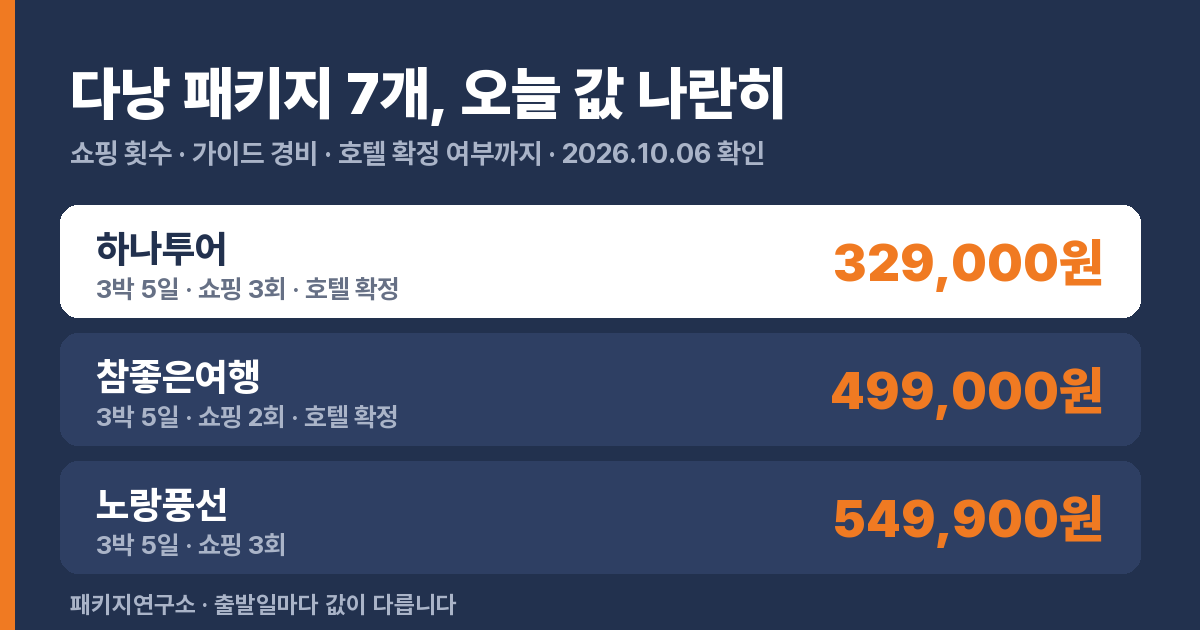
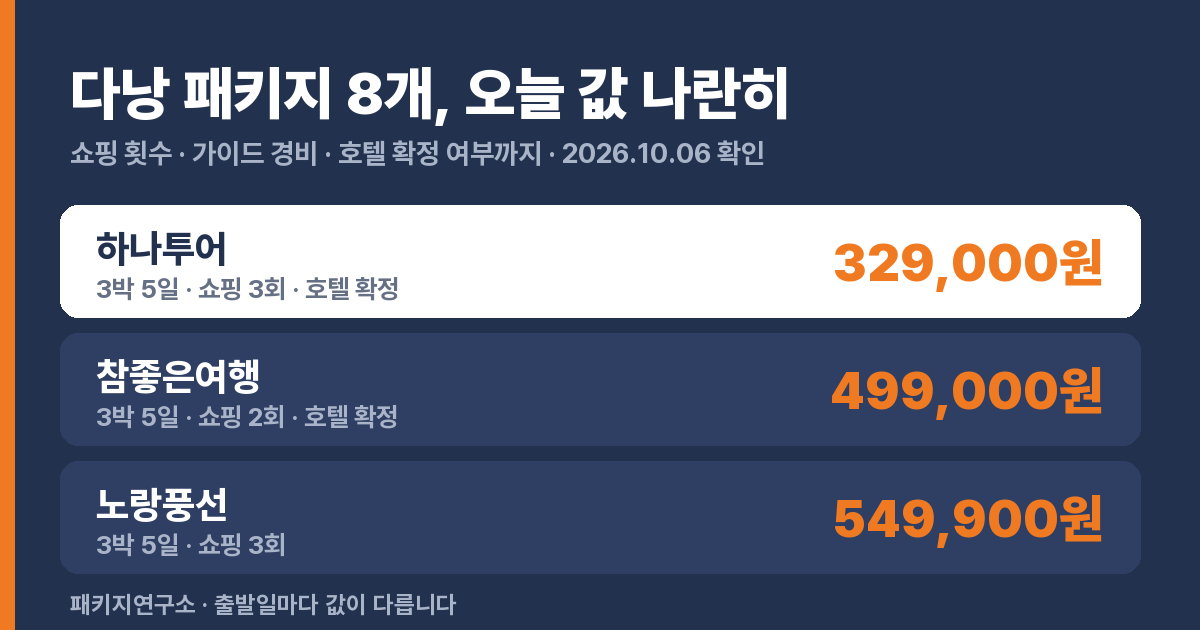
목적지 비교 페이지 2026.10.06

Changed region(s): [[0.2775, 0.0905, 0.6783, 0.2111], [0.4317, 0.0905, 0.4625, 0.1206]]

diff --git a/d/danang.html b/d/danang.html
@@ -1,8 +1,8 @@
 <!doctype html><html lang="ko"><head>
 <meta charset="utf-8"><meta name="viewport" content="width=device-width,initial-scale=1">
 <title>다낭 패키지 비교 — 패키지연구소</title>
-<meta name="description" content="다낭 패키지 7개를 가격·쇼핑 횟수·가이드 경비·호텔 확정 여부로 나란히 놓고 비교합니다.">
-<link rel="canonical" href="https://package-researcher.github.io/d/danang.html"><meta property="og:type" content="website"><meta property="og:url" content="https://package-researcher.github.io/d/danang.html"><meta property="og:title" content="다낭 패키지 7개, 나란히 비교"><meta property="og:description" content="가격·쇼핑 횟수·가이드 경비·호텔 확정 여부 · 오늘 기준 요금"><meta property="og:image" content="https://package-researcher.github.io/d/og/danang.png"><meta property="og:image:width" content="1200"><meta property="og:image:height" content="630"><meta name="twitter:card" content="summary_large_image"><script type="application/ld+json">{"@context": "https://schema.org", "@graph": [{"@type": "WebPage", "name": "다낭 패키지 7개 비교", "url": "https://package-researcher.github.io/d/danang.html", "publisher": {"@type": "Organization", "name": "패키지연구소", "url": "https://package-researcher.github.io/", "logo": "https://package-researcher.github.io/logo.png", "sameAs": ["https://www.youtube.com/@package-researcher", "https://www.instagram.com/package_researcher", "https://www.threads.net/@package_researcher", "https://clip.naver.com/@packagelabs", "https://blog.naver.com/robotnady10", "https://spnd.tistory.com"]}}, {"@type": "BreadcrumbList", "itemListElement": [{"@type": "ListItem", "position": 1, "name": "패키지연구소", "item": "https://package-researcher.github.io/"}, {"@type": "ListItem", "position": 2, "name": "다낭 패키지 비교", "item": "https://package-researcher.github.io/d/danang.html"}]}]}</script>
+<meta name="description" content="다낭 패키지 8개를 가격·쇼핑 횟수·가이드 경비·호텔 확정 여부로 나란히 놓고 비교합니다.">
+<link rel="canonical" href="https://package-researcher.github.io/d/danang.html"><meta property="og:type" content="website"><meta property="og:url" content="https://package-researcher.github.io/d/danang.html"><meta property="og:title" content="다낭 패키지 8개, 나란히 비교"><meta property="og:description" content="가격·쇼핑 횟수·가이드 경비·호텔 확정 여부 · 오늘 기준 요금"><meta property="og:image" content="https://package-researcher.github.io/d/og/danang.png"><meta property="og:image:width" content="1200"><meta property="og:image:height" content="630"><meta name="twitter:card" content="summary_large_image"><script type="application/ld+json">{"@context": "https://schema.org", "@graph": [{"@type": "WebPage", "name": "다낭 패키지 8개 비교", "url": "https://package-researcher.github.io/d/danang.html", "publisher": {"@type": "Organization", "name": "패키지연구소", "url": "https://package-researcher.github.io/", "logo": "https://package-researcher.github.io/logo.png", "sameAs": ["https://www.youtube.com/@package-researcher", "https://www.instagram.com/package_researcher", "https://www.threads.net/@package_researcher", "https://clip.naver.com/@packagelabs", "https://blog.naver.com/robotnady10", "https://spnd.tistory.com"]}}, {"@type": "BreadcrumbList", "itemListElement": [{"@type": "ListItem", "position": 1, "name": "패키지연구소", "item": "https://package-researcher.github.io/"}, {"@type": "ListItem", "position": 2, "name": "다낭 패키지 비교", "item": "https://package-researcher.github.io/d/danang.html"}]}]}</script>
 <style>
 *{box-sizing:border-box}
 body{margin:0;background:#F7F5EF;color:#22314E;word-break:keep-all;overflow-wrap:anywhere;
@@ -41,7 +41,7 @@ h1{font-size:27px;line-height:1.3;margin:6px 0 4px;letter-spacing:-.02em}
 </style></head><body><div class="wrap">
 <a class="back" href="https://package-researcher.github.io/">← 패키지연구소</a>
 <h1>다낭 패키지, 나란히 놓고 비교</h1>
-<p class="sub">7개 · 2026.10.06 기준 · 값싼 순</p>
+<p class="sub">8개 · 2026.10.06 기준 · 값싼 순</p>
 <div class="note"><b>이 표를 보는 법.</b> 값만 보면 안 됩니다.
 <b>쇼핑 횟수</b>가 값을 만들고(0회면 보통 20만원 이상 비쌉니다),
 <b>가이드 경비</b>는 현지에서 따로 내는 돈이며,
@@ -54,6 +54,7 @@ h1{font-size:27px;line-height:1.3;margin:6px 0 4px;letter-spacing:-.02em}
 <div class="card"><div class="name">다낭/호이안 5일 5성 NO옵션NO팁 목식당씨푸드 34만원상당옵션포함 쇼핑2회 차밍쇼 야경투어 TW013</div><div class="price">629,900원<span>1인</span></div><div class="grid"><div class="kv"><b>여행사</b>노랑풍선</div><div class="kv"><b>일정</b>3박 5일</div><div class="kv"><b>항공</b>트리니티항공 직항</div><div class="kv"><b>출발</b>21:35</div><div class="kv"><b>쇼핑</b>2회</div><div class="kv"><b>가이드 경비</b>포함</div><div class="kv"><b>식사</b>10회</div><div class="kv"><b>인솔자</b>없음</div></div><div class="fit"><span class="ok">좋은 점</span> 가이드 경비 포함 · 직항</div><a class="go" href="https://naver.me/GSQyF7NS" target="_blank" rel="sponsored noopener">오늘 기준 요금 보기</a></div>
 <div class="card"> <div class="tag gray">영상으로 따져봄</div><div class="name">NO팁/NO옵션 [다낭3박5일] 바나힐/호이안 - 전객실 오션뷰 [신축 나스타 셀리아 5성 호텔] 부산출발</div><div class="price">711,300원<span>1인</span></div><div class="grid"><div class="kv"><b>여행사</b>편한여행사</div><div class="kv"><b>일정</b>3박 5일</div><div class="kv"><b>항공</b>비엣젯항공 직항</div><div class="kv"><b>출발</b>08:30</div><div class="kv"><b>쇼핑</b>2회</div><div class="kv"><b>가이드 경비</b>포함</div><div class="kv"><b>식사</b>9회</div><div class="kv"><b>인솔자</b>없음</div></div><div class="fit"><b>추천</b> · <span class="ok">맞는 분</span> 부산·경남 거주 — 김해 오전 직항<br><span class="no">안 맞는 분</span> 귀국 새벽 비행기(00:30 → 06:50)가 힘든 분</div><div style="margin:10px 0 2px;font-size:14px">▶ <a href="https://youtu.be/-FYLYX0qFY4" target="_blank" rel="noopener">이 상품 따져본 영상</a> · <a href="https://package-researcher.github.io/a/danang_20261026.html?s=cmp">표·계산 글</a></div><a class="go" href="https://naver.me/IDkUHTVO" target="_blank" rel="sponsored noopener">오늘 기준 요금 보기</a></div>
 <div class="card"><div class="tag gray">호텔 확정</div><div class="name">[노옵션다낭/호이안] 5성 호텔 29만원 상당 옵션 포함 호이안 야경 전신마사지 식사 UP 5일</div><div class="price">799,000원<span>1인</span></div><div class="grid"><div class="kv"><b>여행사</b>참좋은여행</div><div class="kv"><b>일정</b>3박 5일</div><div class="kv"><b>항공</b>진에어 직항</div><div class="kv"><b>출발</b>17:30</div><div class="kv"><b>쇼핑</b>2회</div><div class="kv"><b>가이드 경비</b>50달러</div><div class="kv"><b>식사</b>9회</div><div class="kv"><b>호텔</b>페닌슐라 호텔 다낭</div><div class="kv"><b>인솔자</b>없음</div></div><div class="fit"><span class="ok">좋은 점</span> 직항 · 호텔 미리 확정<br><span class="no">따져볼 점</span> 가이드 경비 현지 50달러</div><a class="go" href="https://naver.me/5nhk1sm2" target="_blank" rel="sponsored noopener">오늘 기준 요금 보기</a></div>
+<div class="card"><div class="tag gray">호텔 확정</div><div class="name">대한항공 노쇼핑 VVIP 풀패키지 [신축 M 호텔 다낭 3박5일] 바나힐/호이안 1일 1마사지 - 인천 오후 출발</div><div class="price">936,000원<span>1인</span></div><div class="grid"><div class="kv"><b>여행사</b>편한여행사</div><div class="kv"><b>일정</b>3박 5일</div><div class="kv"><b>항공</b>대한항공 직항</div><div class="kv"><b>출발</b>18:40</div><div class="kv"><b>쇼핑</b>0회</div><div class="kv"><b>가이드 경비</b>50달러</div><div class="kv"><b>식사</b>9회</div><div class="kv"><b>자유일정</b>1일</div><div class="kv"><b>호텔</b>M 호텔 다낭 (M HOTEL DANANG </div><div class="kv"><b>인솔자</b>없음</div></div><div class="fit"><span class="ok">좋은 점</span> 쇼핑 없음 · 직항 · 호텔 미리 확정<br><span class="no">따져볼 점</span> 가이드 경비 현지 50달러</div><a class="go" href="https://naver.me/FuNrWxrC" target="_blank" rel="sponsored noopener">오늘 기준 요금 보기</a></div>
 <div class="note" style="margin-top:18px"><b>이 중 맞는 상품이 없다면 — 직접 짜실 분</b><ul style="margin:8px 0 0;padding-left:18px;line-height:1.9"><li>✈ 인천→다낭 직항 왕복 <b>261,500원</b>부터 (10/14 출발 · 1인 · 조회값) — <a href="https://myrealt.rip/uFL2b3" target="_blank" rel="noopener">항공권 보기</a></li><li>🎫 다낭 바나힐 입장권 티켓 QR코드 바로 입장 (왕복 케이블카 포함) · 27,816원부터 — <a href="https://myrealt.rip/tO14eb" target="_blank" rel="noopener">보기</a></li><li>🎫 [즉시확정] 다낭 국제공항 입국 및 출국 일반/VIP 패스트트랙 · 2,900원부터 — <a href="https://myrealt.rip/tO6wb2" target="_blank" rel="noopener">보기</a></li></ul><div style="color:#98A2B3;font-size:12px;margin-top:6px">항공값은 마이리얼트립에 저장된 최저 운임이라 실제 검색값과 다를 수 있습니다.</div></div>
 <div class="foot">
 가격은 2026.10.06 확인한 성인 1인 표시가입니다. 출발일에 따라 달라집니다.<br>
